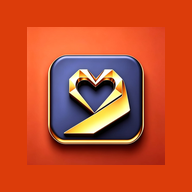
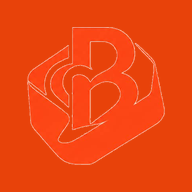
Add files via upload

diff --git a/index.html b/index.html
@@ -770,7 +770,10 @@ body{padding-bottom:65px!important;background:#f2f2f2!important}
     <button class="hamburger" onclick="toggleSidebar()"><i class="fas fa-bars"></i></button>
     <!-- Logo: show image if available, fallback to styled text -->
     <div style="flex:1;display:flex;align-items:center">
-      <img id="header-logo-img" src="header-logo.png" alt="Benim" onclick="navigate('home')" style="height:38px;width:auto;cursor:pointer;display:inline-block;vertical-align:middle;object-fit:contain">
+      <div onclick="navigate('home')" style="display:flex;align-items:center;gap:7px;cursor:pointer;text-decoration:none">
+        <img src="benim-icon.png" alt="Benim" style="height:32px;width:32px;object-fit:contain;display:block;flex-shrink:0">
+        <span style="font-family:'Poppins',sans-serif;font-weight:900;font-size:24px;color:#e8420a;letter-spacing:-0.5px;line-height:1">BENIM</span>
+      </div>
     </div>
     <div class="header-icons" style="display:flex;align-items:center;gap:4px">
       <button id="dark-mode-btn" onclick="toggleDarkMode()" title="Toggle dark/light mode">🌙</button>
@@ -1220,7 +1223,7 @@ body{padding-bottom:65px!important;background:#f2f2f2!important}
 <div id="page-login" class="page">
   <div class="auth-wrap">
     <div class="auth-card">
-      <div class="auth-logo"><img src="header-logo.png" alt="Benim" style="height:70px;object-fit:contain;cursor:pointer" onclick="navigate('home')"></div>
+      <div class="auth-logo"><div style="display:flex;align-items:center;justify-content:center;gap:8px;margin-bottom:8px;cursor:pointer" onclick="navigate('home')"><img src="benim-icon.png" style="height:40px;width:40px;object-fit:contain"><span style="font-family:Poppins,sans-serif;font-weight:900;font-size:28px;color:#e8420a;letter-spacing:-0.5px">BENIM</span></div></div>
       <h2 class="auth-title">Welcome Back!</h2>
       <p class="auth-subtitle">Sign in to your Benim account</p>
       <button class="btn-google" onclick="loginWithGoogle()"><img src="https://www.google.com/favicon.ico" width="18" height="18"> Continue with Google</button>